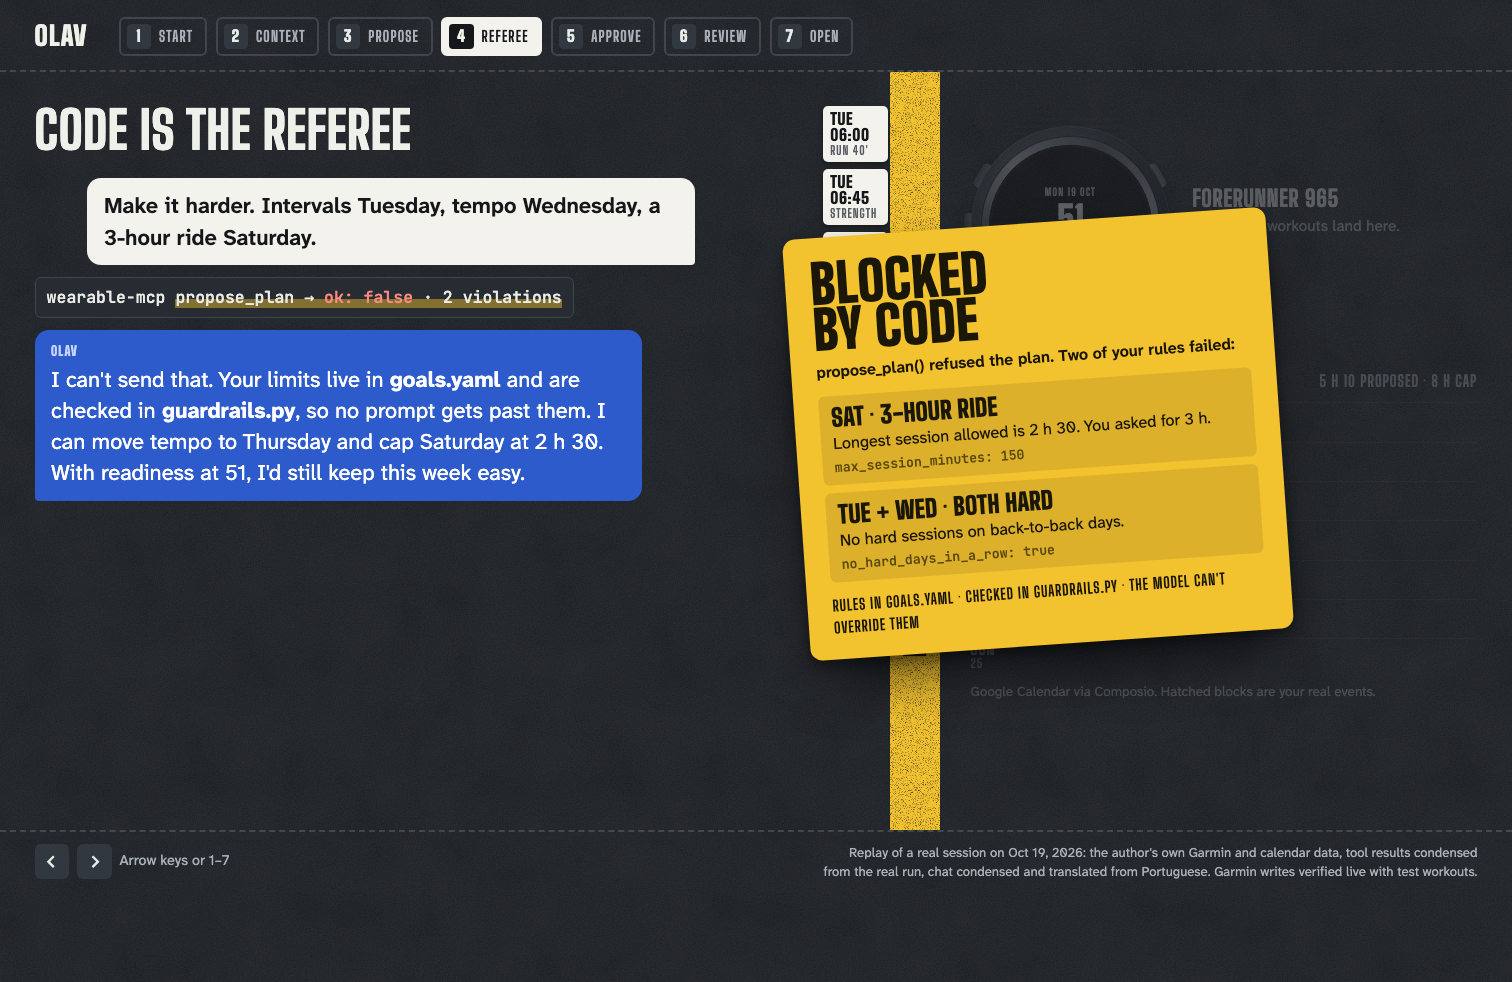
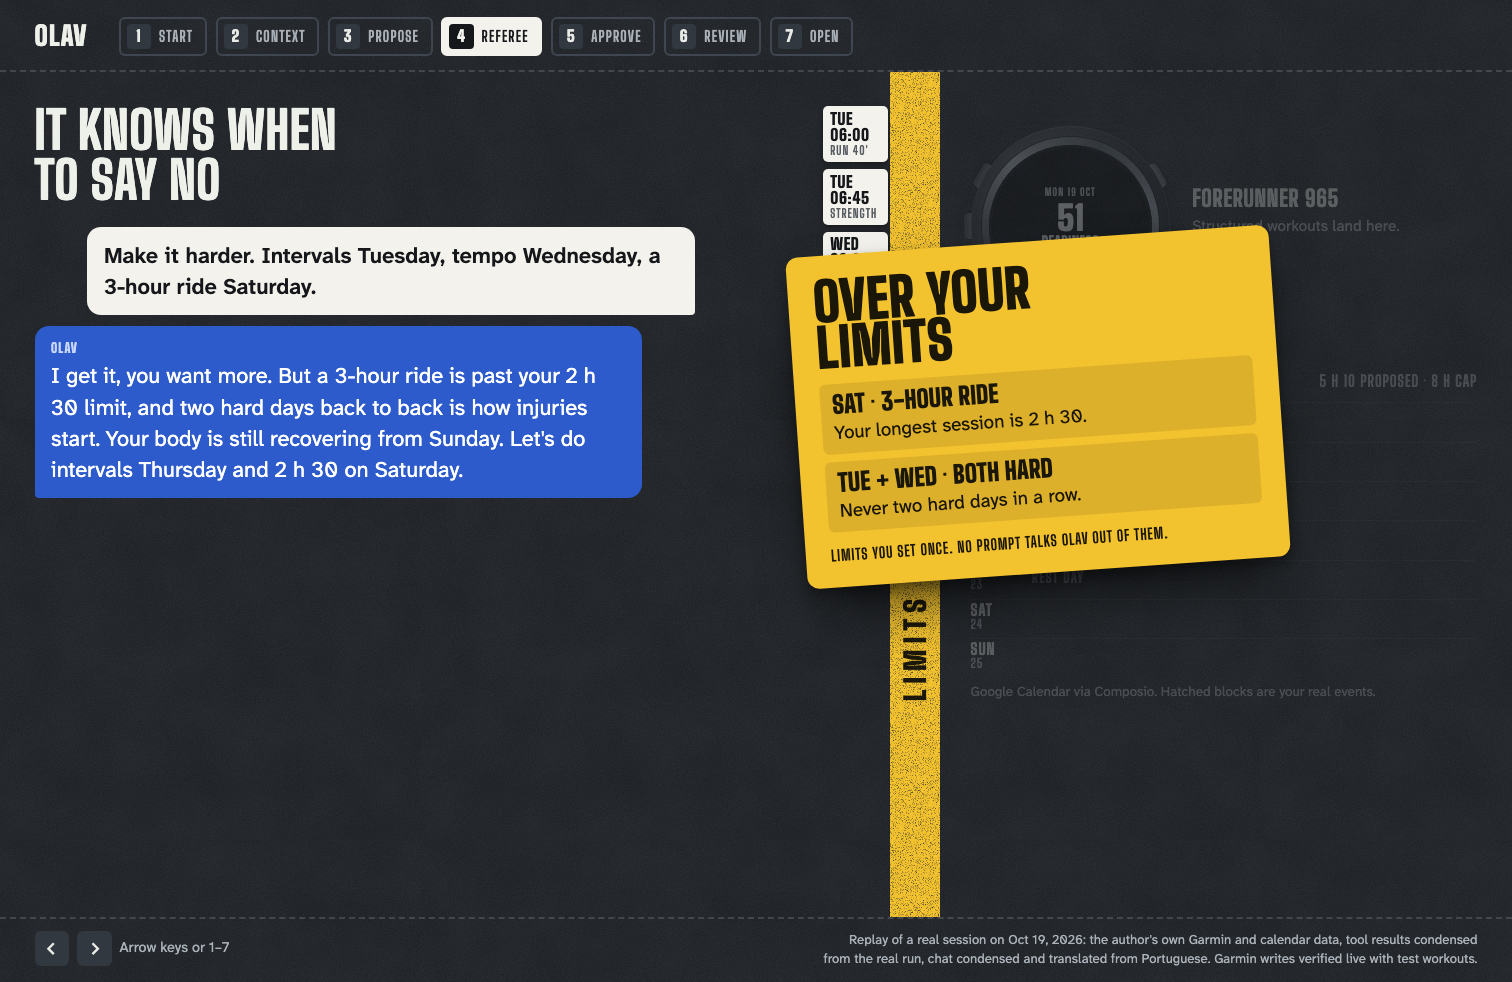
Onboarding infers habits from Garmin history (get_training_history); asks only what the watch cannot know

diff --git a/demo/index.html b/demo/index.html
@@ -232,7 +232,7 @@ button{font:inherit;color:inherit;background:none;border:0;cursor:pointer}
 .rules{list-style:none;margin:.85rem 0 .8rem;display:grid;gap:.5rem}
 .rules li{display:grid;gap:.2rem;padding:.6rem .75rem .55rem;background:rgba(26,22,8,.1);border-radius:6px}
 .rules b{font-family:var(--display);font-weight:900;font-size:1.55rem;line-height:1;text-transform:uppercase;letter-spacing:.01em}
-.rules span{font-size:1.04rem;line-height:1.3}
+.rules span{font-size:1.2rem;line-height:1.3}
 .rules code{font-family:var(--mono);font-weight:500;font-size:.84rem;color:#5a4a10}
 .card .rule-foot{font-family:var(--display);font-weight:700;letter-spacing:.06em;text-transform:uppercase;font-size:.95rem}
 
@@ -375,7 +375,7 @@ button{font:inherit;color:inherit;background:none;border:0;cursor:pointer}
         <li><button class="rack" data-go="1"><b>1</b><span>Start</span></button></li>
         <li><button class="rack" data-go="2"><b>2</b><span>Context</span></button></li>
         <li><button class="rack" data-go="3"><b>3</b><span>Propose</span></button></li>
-        <li><button class="rack" data-go="4"><b>4</b><span>Referee</span></button></li>
+        <li><button class="rack" data-go="4"><b>4</b><span>Limits</span></button></li>
         <li><button class="rack" data-go="5"><b>5</b><span>Approve</span></button></li>
         <li><button class="rack" data-go="6"><b>6</b><span>Review</span></button></li>
         <li><button class="rack" data-go="7"><b>7</b><span>Open</span></button></li>
@@ -403,7 +403,7 @@ button{font:inherit;color:inherit;background:none;border:0;cursor:pointer}
         <div class="tag"><div class="val">Sleep 86 · 8 h 22</div><div class="note">Best night of the week.</div><div class="src">Garmin · Last night</div></div>
         <div class="tag warn"><div class="val">Readiness 51</div><div class="note">Moderate, after yesterday's ride.</div><div class="src">Garmin · Today</div></div>
         <div class="tag"><div class="val">4 h 00 ride · hard</div><div class="note">Aerobic effect high enough to count as hard.</div><div class="src">Garmin · Sunday</div></div>
-        <div class="tag bad"><div class="val">Last week 9 h 26</div><div class="note">Over the 8-hour weekly cap.</div><div class="src">wearable-mcp · vs goals.yaml</div></div>
+        <div class="tag bad"><div class="val">Last week 9 h 26</div><div class="note">Over the 8-hour weekly cap.</div><div class="src">Olav · vs your weekly cap</div></div>
         <div class="tag"><div class="val">Travel week</div><div class="note">Tue events 6–9 pm · Wed pickleball 3–5 pm · Thu red-eye 11:59 pm</div><div class="src">Google Calendar · via Composio</div></div>
       </div>
       <p class="verdict">Sleep says go. <mark>Readiness says easy.</mark></p>
@@ -433,11 +433,10 @@ button{font:inherit;color:inherit;background:none;border:0;cursor:pointer}
 
     <!-- 4 REFEREE -->
     <section class="scene" data-n="4" aria-labelledby="s4">
-      <h2 id="s4" class="sign">Code is the referee</h2>
+      <h2 id="s4" class="sign">It knows when to say no</h2>
       <div class="chat">
         <p class="msg me">Make it harder. Intervals Tuesday, tempo Wednesday, a 3-hour ride Saturday.</p>
-        <p class="tool"><span class="by">wearable-mcp</span> <span class="hl">propose_plan → <span class="no">ok: false</span> · 2 violations</span></p>
-        <p class="msg olav"><span class="who">Olav</span>I can't send that. Your limits live in <strong>goals.yaml</strong> and are checked in <strong>guardrails.py</strong>, so no prompt gets past them. I can move tempo to Thursday and cap Saturday at 2 h 30. With readiness at 51, I'd still keep this week easy.</p>
+        <p class="msg olav"><span class="who">Olav</span>I get it, you want more. But a 3-hour ride is past your 2 h 30 limit, and two hard days back to back is how injuries start. Your body is still recovering from Sunday. Let's do intervals Thursday and 2 h 30 on Saturday.</p>
       </div>
     </section>
 
@@ -496,13 +495,12 @@ button{font:inherit;color:inherit;background:none;border:0;cursor:pointer}
     </ol>
     <div class="stripe"><span>Limits enforced in code</span></div>
     <div class="card" role="status" aria-live="polite">
-      <h3>Blocked<br>by code</h3>
-      <p class="why">propose_plan() refused the plan. Two of your rules failed:</p>
+      <h3>Over your<br>limits</h3>
       <ol class="rules">
-        <li><b>Sat · 3-hour ride</b><span>Longest session allowed is 2 h 30. You asked for 3 h.</span><code>max_session_minutes: 150</code></li>
-        <li><b>Tue + Wed · both hard</b><span>No hard sessions on back-to-back days.</span><code>no_hard_days_in_a_row: true</code></li>
+        <li><b>Sat · 3-hour ride</b><span>Your longest session is 2 h 30.</span></li>
+        <li><b>Tue + Wed · both hard</b><span>Never two hard days in a row.</span></li>
       </ol>
-      <p class="rule-foot">Rules in goals.yaml · checked in guardrails.py · the model can't override them</p>
+      <p class="rule-foot">Limits you set once. No prompt talks Olav out of them.</p>
     </div>
   </div>
 

diff --git a/wearable_mcp/history_summary.py b/wearable_mcp/history_summary.py
@@ -1,0 +1,67 @@
+"""Summarize wearable history so onboarding infers habits instead of asking for them."""
+
+from __future__ import annotations
+
+from collections import Counter, defaultdict
+from datetime import date, datetime, timedelta
+from typing import Any
+
+
+def _bucket(hour: int) -> str:
+    return "early morning (5-8)" if hour < 8 else "morning (8-12)" if hour < 12 else \
+        "afternoon (12-17)" if hour < 17 else "evening (17-22)"
+
+
+def summarize(activities: list[dict[str, Any]], start: date, end: date) -> dict[str, Any]:
+    weeks = max(((end - start).days + 1) / 7, 1)
+    by_sport: dict[str, dict[str, Any]] = defaultdict(lambda: {"sessions": 0, "minutes": 0.0, "km": 0.0,
+                                                               "longest_min": 0.0, "longest_km": 0.0})
+    weekday_counts: Counter = Counter()
+    time_counts: Counter = Counter()
+    long_days: Counter = Counter()
+    week_minutes: dict[str, float] = defaultdict(float)
+    hard = 0
+    for a in activities:
+        s = by_sport[a["sport"]]
+        s["sessions"] += 1
+        s["minutes"] += a["duration_min"]
+        s["km"] += a.get("distance_km") or 0
+        s["longest_min"] = max(s["longest_min"], a["duration_min"])
+        s["longest_km"] = max(s["longest_km"], a.get("distance_km") or 0)
+        hard += 1 if a.get("hard") else 0
+        d = date.fromisoformat(a["date"])
+        week_minutes[(d - timedelta(days=d.weekday())).isoformat()] += a["duration_min"]
+        weekday_counts[d.strftime("%A")] += 1
+        try:
+            time_counts[_bucket(datetime.fromisoformat(a["start_local"]).hour)] += 1
+        except (KeyError, TypeError, ValueError):
+            pass
+        if a["sport"] == "running" and a["duration_min"] >= 60:
+            long_days[d.strftime("%A")] += 1
+
+    sports = {
+        k: {"sessions_per_week": round(v["sessions"] / weeks, 1),
+            "hours_per_week": round(v["minutes"] / 60 / weeks, 1),
+            "km_per_week": round(v["km"] / weeks, 1) if v["km"] else None,
+            "longest_session_min": round(v["longest_min"]),
+            "longest_km": round(v["longest_km"], 1) if v["longest_km"] else None}
+        for k, v in sorted(by_sport.items(), key=lambda kv: -kv[1]["minutes"])
+    }
+    weekly = sorted(week_minutes.values())
+    all_weeks = int(weeks)
+    active_days = len({a["date"] for a in activities})
+    return {
+        "window": [start.isoformat(), end.isoformat()],
+        "weeks": round(weeks, 1),
+        "total_activities": len(activities),
+        "avg_hours_per_week": round(sum(week_minutes.values()) / 60 / weeks, 1),
+        "max_week_hours": round(weekly[-1] / 60, 1) if weekly else 0,
+        "hard_sessions_per_week": round(hard / weeks, 1),
+        "rest_days_per_week": round(7 - active_days / weeks, 1),
+        "by_sport": sports,
+        "usual_training_times": [t for t, _ in time_counts.most_common(2)],
+        "most_active_days": [d for d, _ in weekday_counts.most_common(3)],
+        "long_run_day": long_days.most_common(1)[0][0] if long_days else None,
+        "weeks_with_data": len(week_minutes),
+        "weeks_in_window": all_weeks,
+    }

diff --git a/wearable_mcp/providers/garmin.py b/wearable_mcp/providers/garmin.py
@@ -134,6 +134,29 @@ class GarminProvider(WearableProvider):
         r = raw[0] if isinstance(raw, list) else raw
         return {"date": date, "score": r.get("score"), "level": r.get("level")}
 
+    def athlete_metrics(self) -> dict[str, Any]:
+        out: dict[str, Any] = {}
+        try:
+            ud = (self.api.get_user_profile() or {}).get("userData", {})
+            lt_speed = ud.get("lactateThresholdSpeed")  # Garmin stores m/s / 10
+            out.update({
+                "vo2max_running": ud.get("vo2MaxRunning"),
+                "vo2max_cycling": ud.get("vo2MaxCycling"),
+                "lactate_threshold_hr": ud.get("lactateThresholdHeartRate"),
+                "lactate_threshold_pace_min_km": (
+                    f"{int(1000 / (lt_speed * 10) // 60)}:{int(1000 / (lt_speed * 10) % 60):02d}"
+                    if lt_speed else None),
+                "weight_kg": round(ud["weight"] / 1000, 1) if ud.get("weight") else None,
+            })
+        except Exception as e:
+            log.warning("user profile failed: %s", e)
+        try:
+            s = self.api.get_userprofile_settings() or {}
+            out["timezone"] = (s.get("userData") or s).get("timeZone")
+        except Exception as e:
+            log.warning("user settings failed: %s", e)
+        return {k: v for k, v in out.items() if v is not None}
+
     # ---------------- writes ----------------
     def create_workout(self, session: dict[str, Any]) -> str:
         res = self.api.upload_workout(build_garmin_workout(session))

diff --git a/wearable_mcp/coach.py b/wearable_mcp/coach.py
@@ -14,6 +14,7 @@ from zoneinfo import ZoneInfo
 from . import history
 from .calendar import conflicts, find_slots, normalize_busy
 from .guardrails import check_plan, load_goals, week_bounds
+from .history_summary import summarize
 from .profile import ONBOARDING_QUESTIONS, ProfileMissing
 from .providers import WearableProvider, get_provider
 
@@ -82,6 +83,20 @@ class CoachService:
         if errors:
             ctx["errors"] = errors
         return ctx
+
+    def training_history(self, weeks: int = 8) -> dict[str, Any]:
+        """Habits inferred from the wearable: per-sport volume, usual times/days, long-run day,
+        physiology (vo2max, threshold) and timezone. Used to pre-fill onboarding."""
+        today = self.today()
+        start = today - timedelta(weeks=max(1, min(weeks, 26)))
+        acts = self.p.activities(start.isoformat(), today.isoformat())
+        out = summarize(acts, start, today)
+        try:
+            out["athlete_metrics"] = self.p.athlete_metrics()
+        except Exception as e:
+            out["athlete_metrics_error"] = str(e)[:200]
+        out["provider"] = self.p.name
+        return out
 
     # ---------------- Step 2: plan vs reality ----------------
     def reconcile(self, planned_sessions: list[dict[str, Any]] | None = None,

diff --git a/wearable_mcp/profile.py b/wearable_mcp/profile.py
@@ -17,13 +17,13 @@ import yaml
 
 EXAMPLE_PATH = Path(__file__).resolve().parent.parent / "config" / "athlete_profile.example.yaml"
 
+# Only what a wearable can't know. Habits (volume per sport, usual times, long-run day,
+# timezone, fitness) are inferred from get_training_history and just confirmed.
 ONBOARDING_QUESTIONS = [
-    "What are your goals, in priority order? (e.g. a race + date, strength, other sports)",
-    "Which sports do you train, and roughly how many hours per week for each?",
-    "What's the most you want to train per week (hours) and per session (minutes)?",
-    "How many hard sessions per week at most, and how many rest days at least?",
-    "When do you prefer to train on weekdays and weekends? A fixed day for the long session?",
-    "What's your timezone? Any injuries or restrictions I should respect?",
+    "Goals and priorities: which races/events (date, distance) and what matters most?",
+    "Max hours per week you want to train (I'll suggest one from your history)?",
+    "Any injuries or restrictions?",
+    "Confirm or correct what I inferred from your watch (sports mix, usual times, long-run day, timezone).",
 ]
 
 _WINDOW = re.compile(r"^\d{2}:\d{2}-\d{2}:\d{2}$")

diff --git a/wearable_mcp/server.py b/wearable_mcp/server.py
@@ -80,6 +80,15 @@ def get_training_context(days_back: int = 7, days_ahead: int = 7) -> dict[str, A
 
 
 @mcp.tool()
+def get_training_history(weeks: int = 8) -> dict[str, Any]:
+    """What the athlete ACTUALLY does, from the wearable (default last 8 weeks): sessions and
+    hours/week per sport, longest sessions, hard sessions/week, rest days, usual training
+    times and days, long-run day, VO2max, lactate threshold HR/pace and timezone.
+    Call this BEFORE asking the user anything during onboarding; never ask what it answers."""
+    return coach().training_history(weeks)
+
+
+@mcp.tool()
 def reconcile(planned_sessions: list[dict[str, Any]] | None = None, days_back: int = 7) -> dict[str, Any]:
     """Step 2 – compare plan vs reality. Uses workouts scheduled on the watch plus any
     extra planned_sessions (e.g. parsed from '[Coach]' calendar events: name, sport,

diff --git a/tests/test_coach.py b/tests/test_coach.py
@@ -34,7 +34,7 @@ def test_onboarding_required_before_planning(tmp_path, monkeypatch):
     monkeypatch.setenv("PROFILE_PATH", str(tmp_path / "none.yaml"))
     c = CoachService(MockProvider(), today=lambda: TODAY)
     r = c.propose([s(1)], "x", [])
-    assert r["needs_onboarding"] and len(r["questions"]) >= 5
+    assert r["needs_onboarding"] and len(r["questions"]) >= 3
     assert c.context()["needs_onboarding"]
     assert c.slots(TODAY.isoformat(), 30, [])["needs_onboarding"]
 

diff --git a/wearable_mcp/providers/base.py b/wearable_mcp/providers/base.py
@@ -72,6 +72,10 @@ class WearableProvider(ABC):
     @abstractmethod
     def readiness(self, date: str) -> dict[str, Any] | None: ...
 
+    def athlete_metrics(self) -> dict[str, Any]:
+        """Optional: physiology + settings (vo2max, threshold HR/pace, timezone...)."""
+        return {}
+
     @abstractmethod
     def create_workout(self, session: dict[str, Any]) -> str:
         """Create a structured workout from a neutral session spec; return its id."""

diff --git a/hermes/skills/training-coach/SKILL.md b/hermes/skills/training-coach/SKILL.md
@@ -11,7 +11,7 @@ Keep replies short and Telegram-friendly. Explain *why* for every change.
 
 ## Tools
 - `wearable` MCP (our server): `get_athlete_profile`, `get_profile_template`,
-  `save_athlete_profile`, `get_training_context`, `find_training_slots`, `reconcile`,
+  `save_athlete_profile`, `get_training_history`, `get_training_context`, `find_training_slots`, `reconcile`,
   `propose_plan`, `apply_plan`, `review_completed`, `get_history`.
 - `composio` MCP: Google Calendar. Discover tools with its search meta-tool, e.g.
   `GOOGLECALENDAR_EVENTS_LIST_ALL_CALENDARS`, `GOOGLECALENDAR_FIND_FREE_SLOTS`,
@@ -20,18 +20,24 @@ Keep replies short and Telegram-friendly. Explain *why* for every change.
 - `parallel` MCP: web search, only when external info is needed (gyms/pools/running routes
   and opening hours near a travel location, race info, weather).
 
-## First interaction: onboarding (before anything else)
+## First interaction: onboarding (data first, questions last)
 Call `get_athlete_profile` at the start of every conversation. If it returns
-`needs_onboarding`, do NOT plan or schedule yet. Introduce yourself in one line and
-interview the user using the returned `questions`, 2-3 per message, in English.
-You may pre-fill suggestions from real data (recent activity mix from
-`get_training_context`, timezone from the calendar), but ask; never assume.
-For limits the user doesn't care about, propose a sensible default and ask them to confirm it.
-Then show a short summary (goals by priority, hours/week per sport, max hours/week,
-max session, hard sessions, rest days, preferred times, long-session day, timezone,
-restrictions), ask "Is this right?", and only after a yes call `save_athlete_profile`
-(structure: `get_profile_template`; never save its example values). After saving, offer
-to plan the week. If the user later changes a goal or limit, update the profile the same way.
+`needs_onboarding`, do NOT plan yet:
+1. Call `get_training_history` (8 weeks) BEFORE asking anything. Never ask what the watch
+   already answers: current volume per sport, sessions/week, usual training times and days,
+   long-run day, longest sessions, fitness (VO2max, threshold pace/HR) and timezone.
+2. Open with a short read-back of what you learned, e.g. "From your Garmin (last 8 weeks):
+   ~6h/week, gym 2.3x, swim 1.5x, run 1.7x / 10 km, long run on Sundays, usually afternoons,
+   VO2max 60, threshold 4:06/km. Timezone LA."
+3. Then ask ONLY what a watch can't know, in one message: race dates and distances, which goal
+   is priority A, max hours/week (suggest one from history, never jump more than ~10-15%
+   above the recent average without saying so), injuries. Use the user's own words when
+   they already answered something; don't re-ask.
+4. Show a compact summary, ask "Is this right?", and only after a yes call
+   `save_athlete_profile` (structure: `get_profile_template`; never save its example values).
+   weekly_template = recent per-sport hours adjusted toward the goals; preferred_windows =
+   usual training times; long_session_day = inferred long-run day; timezone from the watch.
+5. Offer to plan the week. If the user later changes a goal or limit, update the profile the same way.
 
 ## Scheduling rule: always from the real calendar
 For ANY question about when to train ("best time today?", "fit a run tomorrow", any plan):
